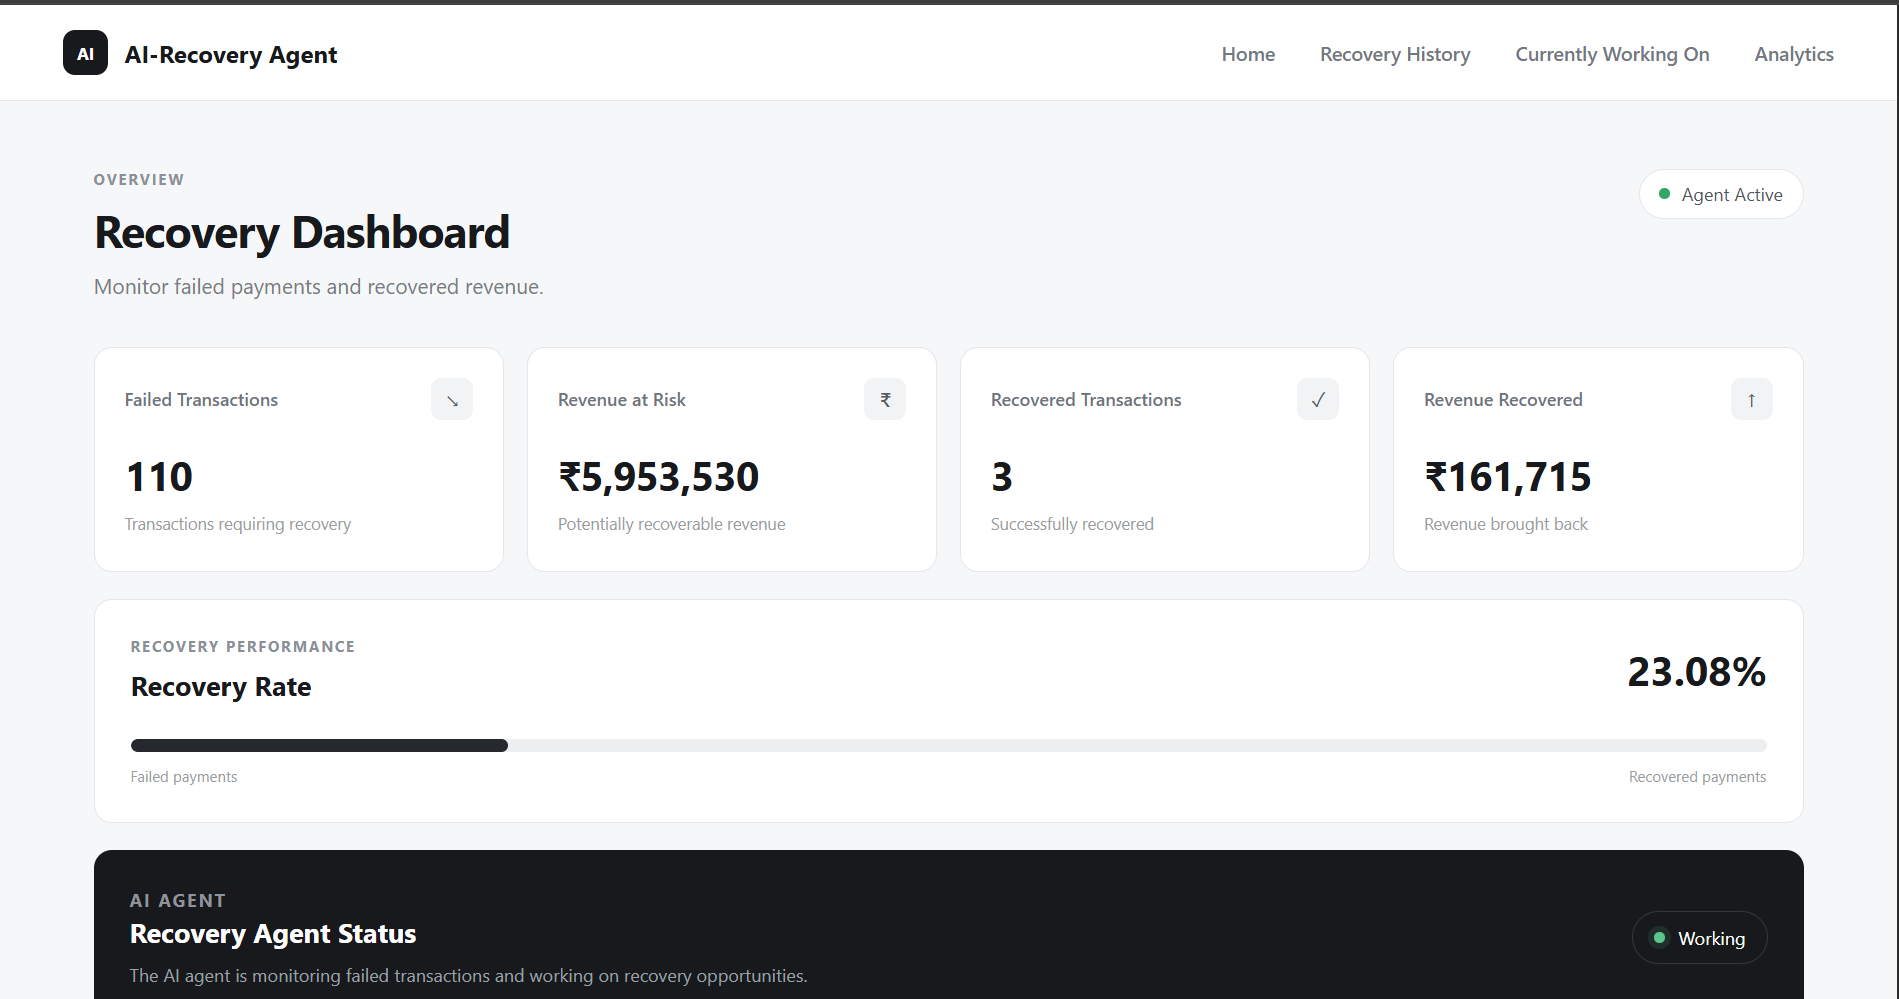
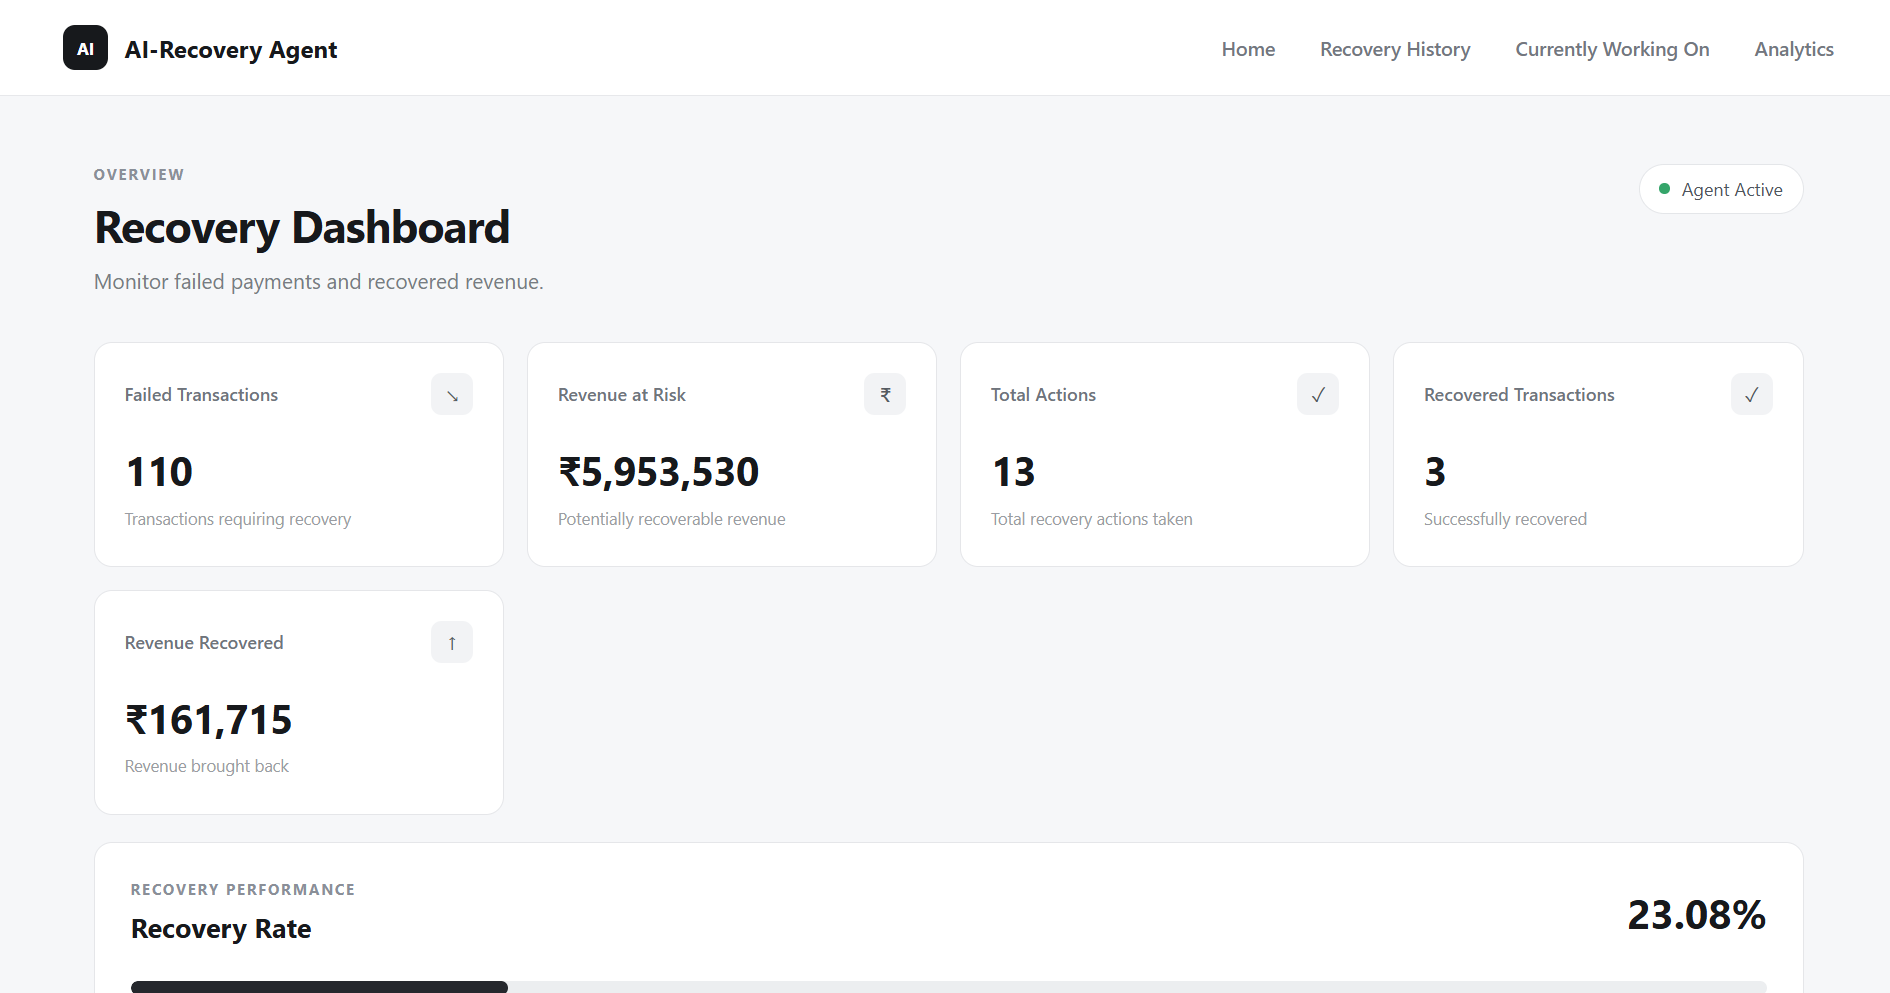
added dashboard images

diff --git a/frontend/dashboard/src/App.js b/frontend/dashboard/src/App.js
@@ -86,6 +86,14 @@ function App() {
             </h2>
             <p className="muted">Potentially recoverable revenue</p>
           </div>
+          <div className="stat-card info">
+            <div className="stat-top">
+              <span>Total Actions</span>
+              <span className="stat-icon">✓</span>
+            </div>
+            <h2>{info ? info.total_actions : '--'}</h2>
+            <p className="muted">Total recovery actions taken</p>
+          </div>
 
           <div className="stat-card success">
             <div className="stat-top">

diff --git a/backend/app/routes/fetch_info.py b/backend/app/routes/fetch_info.py
@@ -24,6 +24,7 @@ def fetch_info(db):
         db.query(func.coalesce(func.sum(RecoveredTransaction.amount), 0))
         .scalar()
     )
+    total_actions=(db.query(func.count(RecoveryAction.id)).scalar())
     recovery_rate=round((recovered_count)/action_count*100, 2) if action_count>0 else 0
 
     return {
@@ -31,5 +32,6 @@ def fetch_info(db):
         "failed_amount": float(failed_amount),
         "recovered_transactions": recovered_count,
         "recovered_amount": float(recovered_amount),
-        "recovery_rate": recovery_rate
+        "recovery_rate": recovery_rate,
+        "total_actions": total_actions
     }

diff --git a/README.md b/README.md
@@ -568,9 +568,6 @@ http://localhost:8000/recovery/{Failed_id}/run
 SELECT id FROM failed_transactions;
 ```
 
-query db as select id from failed_transactions;
-copy and paste it there in the url
-Once all services are running, the recovery workflow can be tested using a failed transaction.
 
 The complete flow is:
 
